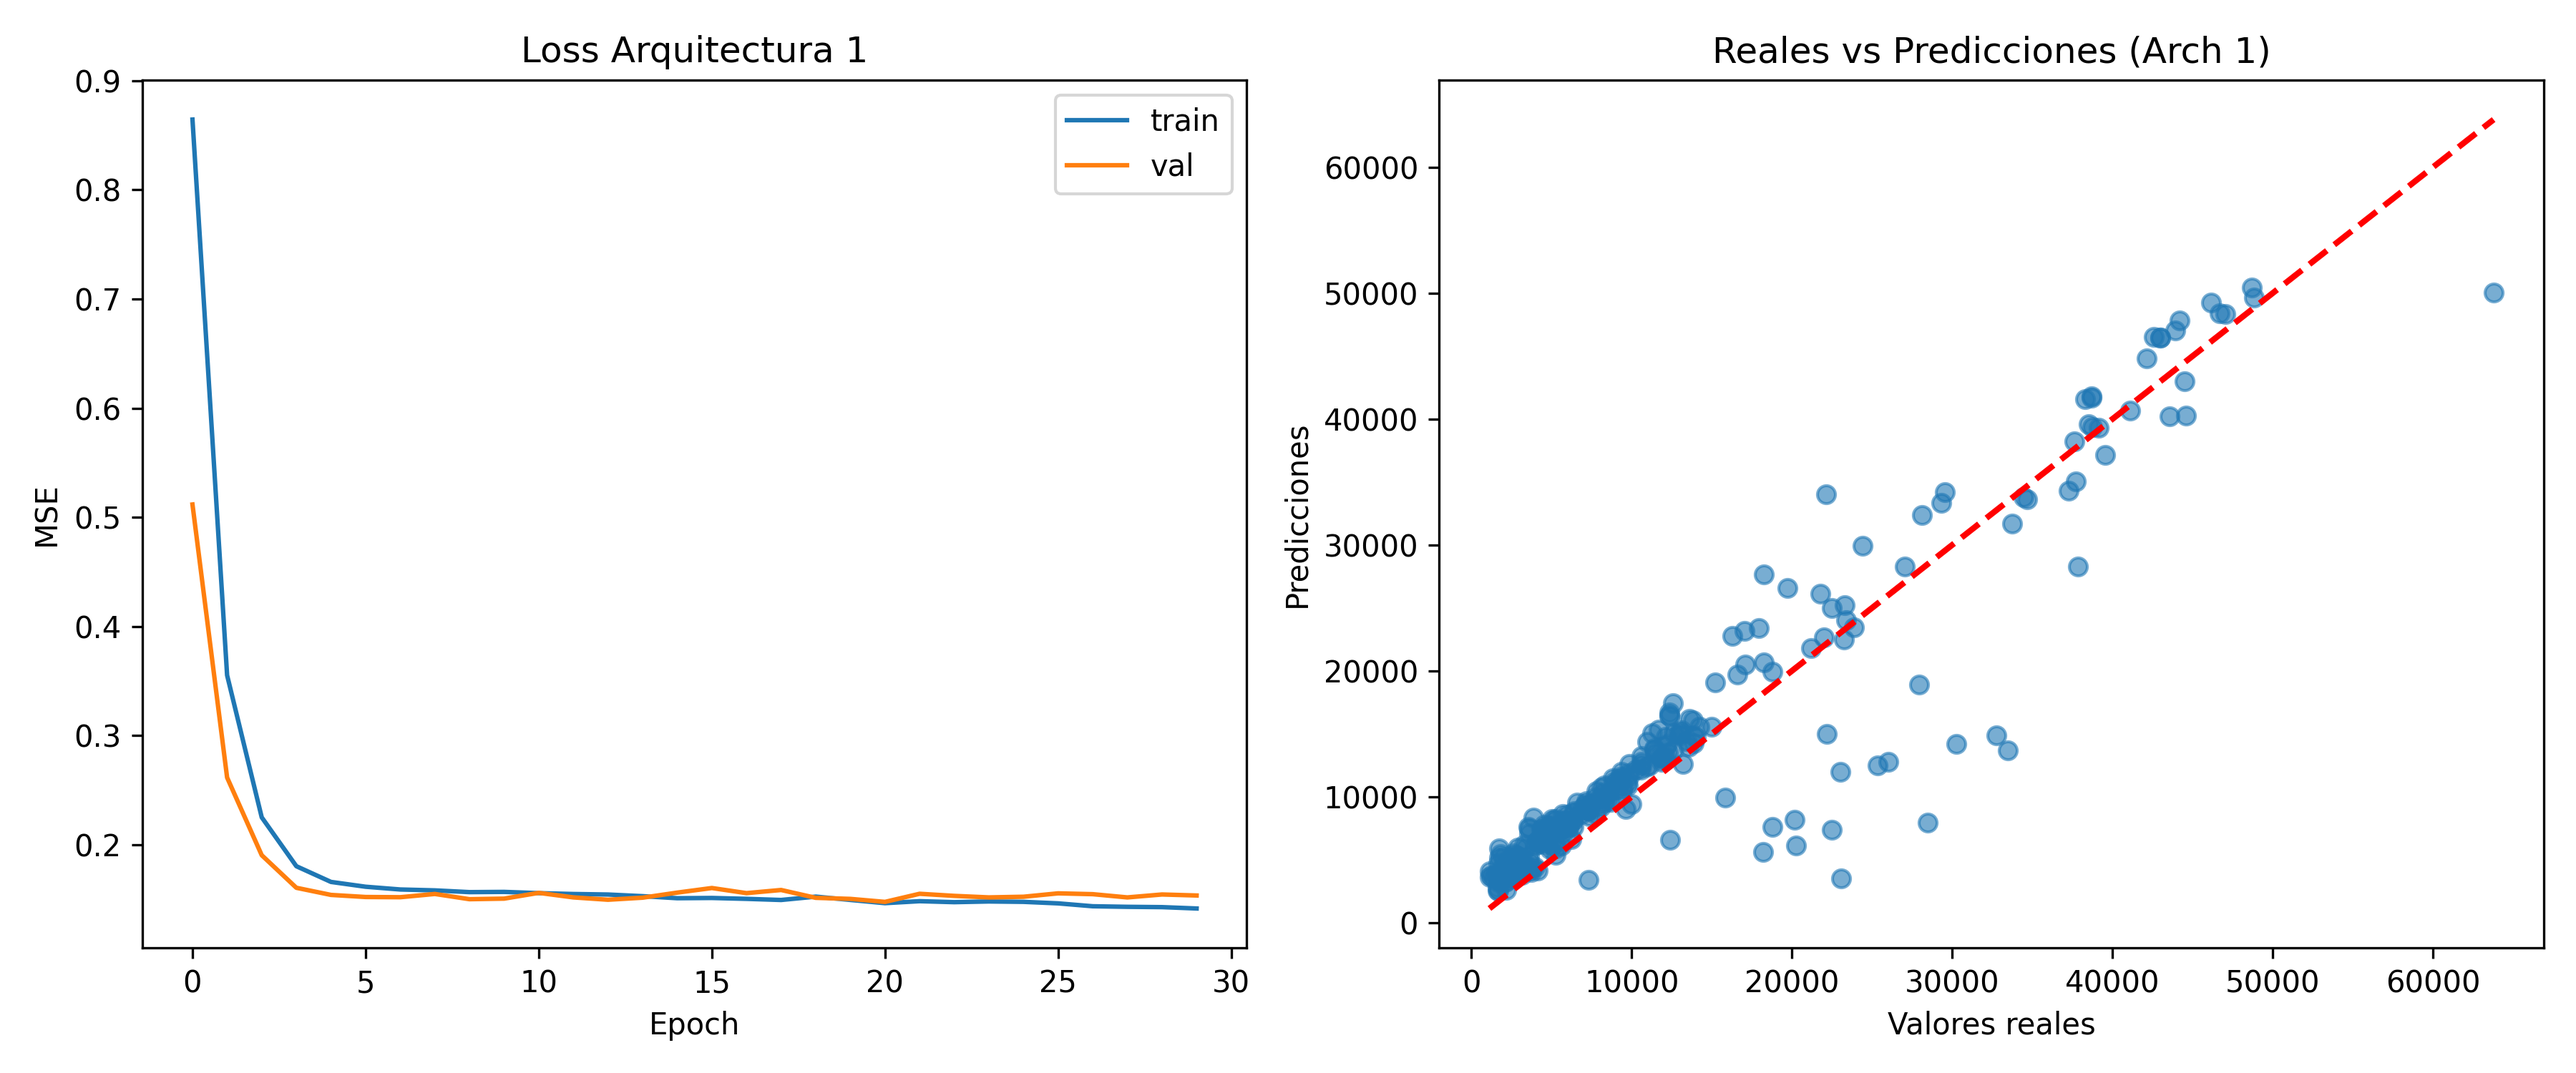
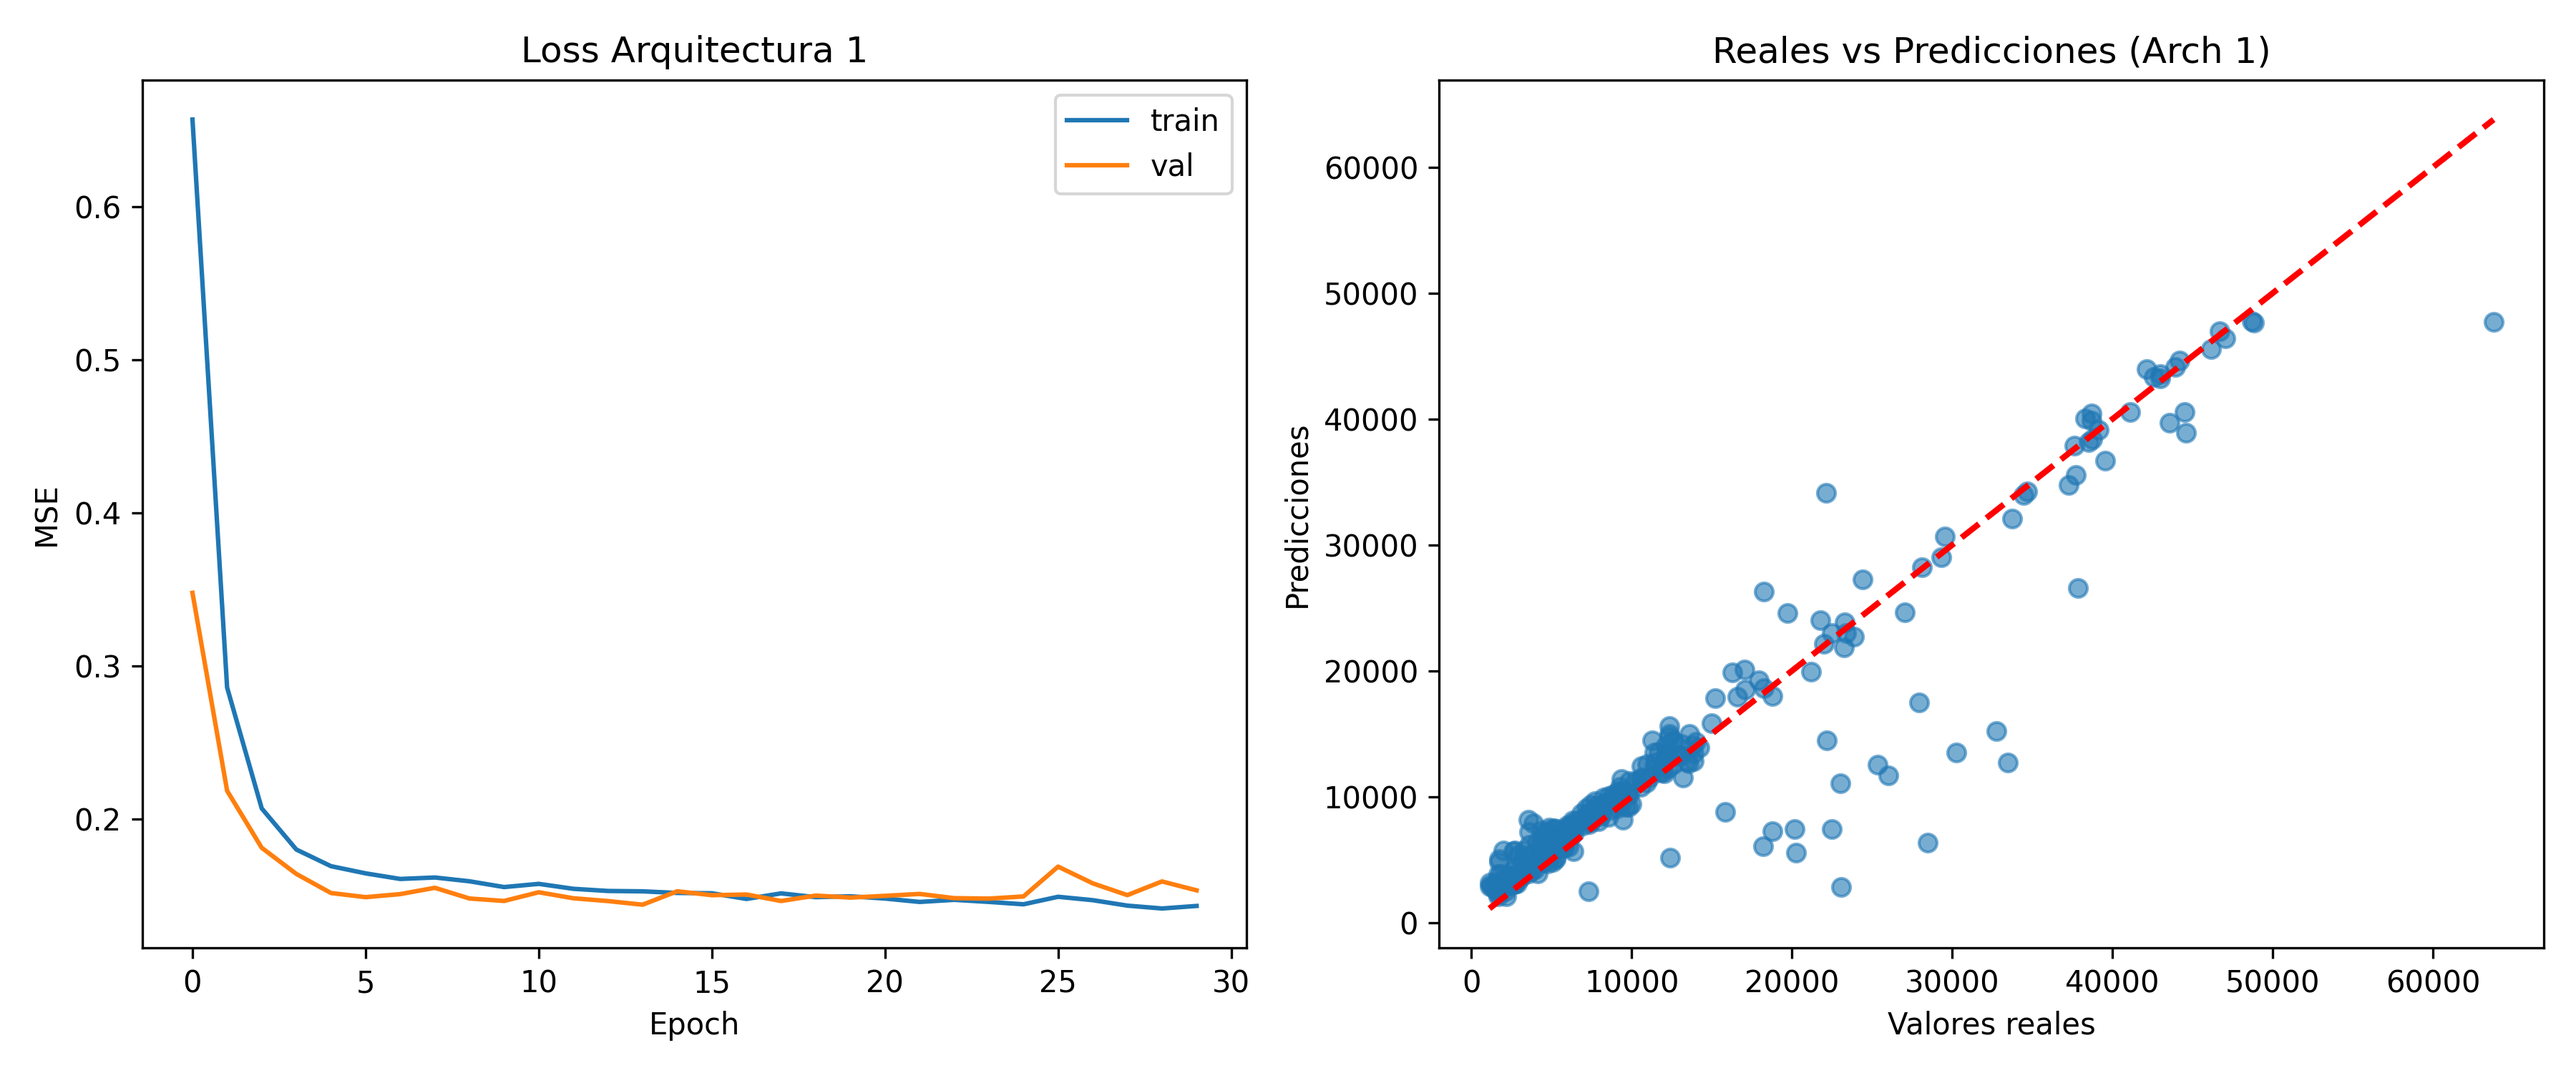
Agrego MAE y k-fold

diff --git a/models/src/nn.py b/models/src/nn.py
@@ -2,7 +2,8 @@ import numpy as np
 import matplotlib.pyplot as plt
 
 from sklearn.preprocessing import StandardScaler
-from sklearn.metrics import mean_squared_error, r2_score
+from sklearn.metrics import mean_squared_error, mean_absolute_error, r2_score
+from sklearn.model_selection import KFold
 import tensorflow as tf
 from tensorflow import keras
 
@@ -10,12 +11,10 @@ from .load_data import load_data
 from .fig import save_fig
 
 
-
-
 def build_model(architecture, input_dim):
 
     if architecture == 1:
-        # Arquitectura 1 (Rectuangular)
+        # Arquitectura 1 (Rectangular)
         model = keras.Sequential([
             keras.layers.Input(shape=(input_dim,)),
             keras.layers.Dense(50, activation="relu"),
@@ -66,19 +65,62 @@ def run_nn_keras(X_train=None, X_test=None, Y_train=None, Y_test=None, epochs=30
 
     results = []
 
+    # K-Fold
+    kf = KFold(n_splits=5, shuffle=True, random_state=42)
+
     for arch in [1, 2, 3]:
 
         print(f"\n===== Entrenando Arquitectura {arch} =====")
 
-        model = build_model(arch, X_train_s.shape[1])
+        fold_mse = []
+        fold_mae = []
+        fold_r2 = []
 
-        callbacks = [
-            keras.callbacks.EarlyStopping(
-                monitor="val_loss",
-                patience=20,
-                restore_best_weights=True
+        # Cross Validation
+        for train_index, val_index in kf.split(X_train_s):
+
+            X_train_fold = X_train_s[train_index]
+            X_val_fold = X_train_s[val_index]
+
+            Y_train_fold = Y_train_s[train_index]
+            Y_val_fold = Y_train_s[val_index]
+
+            model = build_model(arch, X_train_s.shape[1])
+
+            callbacks = [
+                keras.callbacks.EarlyStopping(
+                    monitor="val_loss",
+                    patience=20,
+                    restore_best_weights=True
+                )
+            ]
+
+            history = model.fit(
+                X_train_fold,
+                Y_train_fold,
+                validation_data=(X_val_fold, Y_val_fold),
+                epochs=epochs,
+                batch_size=32,
+                verbose=0,
+                callbacks=callbacks
             )
-        ]
+
+            y_pred_val_s = model.predict(X_val_fold)
+            y_pred_val = scaler_y.inverse_transform(y_pred_val_s).ravel()
+
+            y_val_real = scaler_y.inverse_transform(Y_val_fold).ravel()
+
+            fold_mse.append(mean_squared_error(y_val_real, y_pred_val))
+            fold_mae.append(mean_absolute_error(y_val_real, y_pred_val))
+            fold_r2.append(r2_score(y_val_real, y_pred_val))
+
+        print("Resultados K-Fold:")
+        print(f"MSE promedio: {np.mean(fold_mse):.2f}")
+        print(f"MAE promedio: {np.mean(fold_mae):.2f}")
+        print(f"R2 promedio : {np.mean(fold_r2):.4f}")
+
+        # Entrenamiento final con todo el train
+        model = build_model(arch, X_train_s.shape[1])
 
         history = model.fit(
             X_train_s,
@@ -86,8 +128,7 @@ def run_nn_keras(X_train=None, X_test=None, Y_train=None, Y_test=None, epochs=30
             validation_split=0.15,
             epochs=epochs,
             batch_size=32,
-            verbose=1,
-            callbacks=callbacks
+            verbose=1
         )
 
         # Predicciones
@@ -100,17 +141,23 @@ def run_nn_keras(X_train=None, X_test=None, Y_train=None, Y_test=None, epochs=30
         # Métricas
         train_mse = mean_squared_error(Y_train, y_pred_train)
         test_mse = mean_squared_error(Y_test, y_pred_test)
+
+        train_mae = mean_absolute_error(Y_train, y_pred_train)
+        test_mae = mean_absolute_error(Y_test, y_pred_test)
+
         train_r2 = r2_score(Y_train, y_pred_train)
         test_r2 = r2_score(Y_test, y_pred_test)
 
         print(f"Arquitectura {arch} resultado")
-        print(f" Train MSE: {train_mse:,.2f} | Train R²: {train_r2:.4f}")
-        print(f" Test  MSE: {test_mse:,.2f} | Test  R²: {test_r2:.4f}")
+        print(f"Train MSE: {train_mse:,.2f} | Train MAE: {train_mae:,.2f} | Train R²: {train_r2:.4f}")
+        print(f"Test  MSE: {test_mse:,.2f} | Test  MAE: {test_mae:,.2f} | Test  R²: {test_r2:.4f}")
 
         results.append({
             "Arquitectura": arch,
             "Train MSE": train_mse,
             "Test MSE": test_mse,
+            "Train MAE": train_mae,
+            "Test MAE": test_mae,
             "Train R2": train_r2,
             "Test R2": test_r2
         })
@@ -138,7 +185,7 @@ def run_nn_keras(X_train=None, X_test=None, Y_train=None, Y_test=None, epochs=30
         save_fig(f"nn_arch_{arch}.png")
         plt.show()
 
-    # Mostrar comparación final
+    # Comparación final
     print("\n===== COMPARACIÓN FINAL =====")
 
     for r in results:
@@ -146,6 +193,8 @@ def run_nn_keras(X_train=None, X_test=None, Y_train=None, Y_test=None, epochs=30
             f"Arquitectura {r['Arquitectura']} | "
             f"Train MSE: {r['Train MSE']:.2f} | "
             f"Test MSE: {r['Test MSE']:.2f} | "
+            f"Train MAE: {r['Train MAE']:.2f} | "
+            f"Test MAE: {r['Test MAE']:.2f} | "
             f"Train R2: {r['Train R2']:.4f} | "
             f"Test R2: {r['Test R2']:.4f}"
         )
